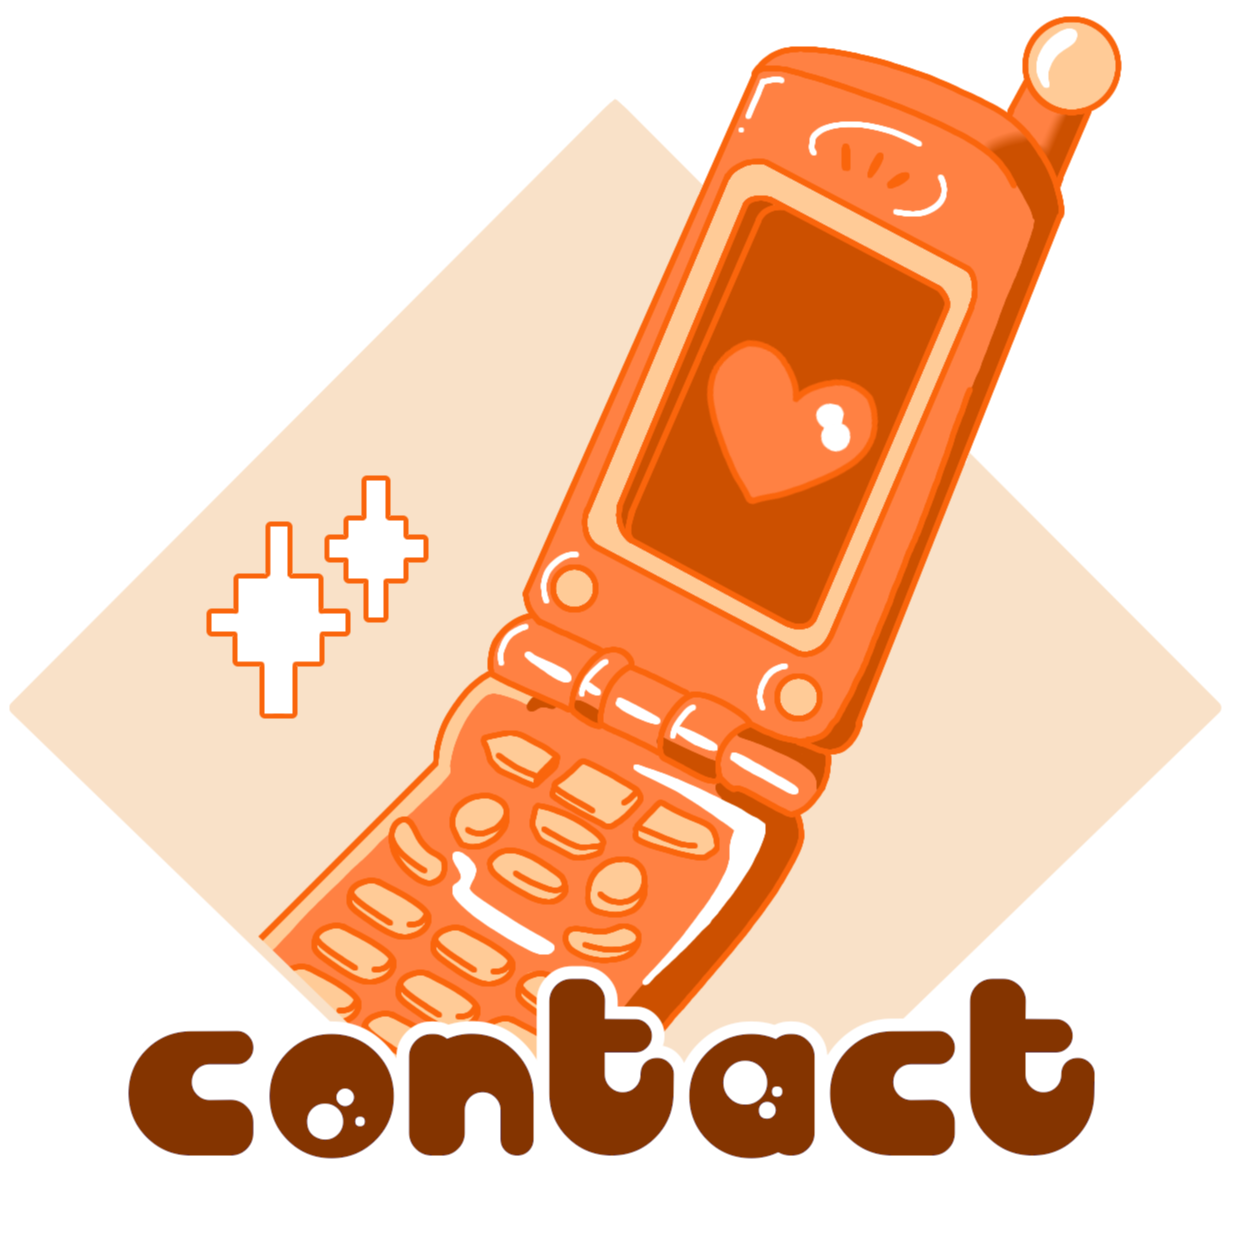
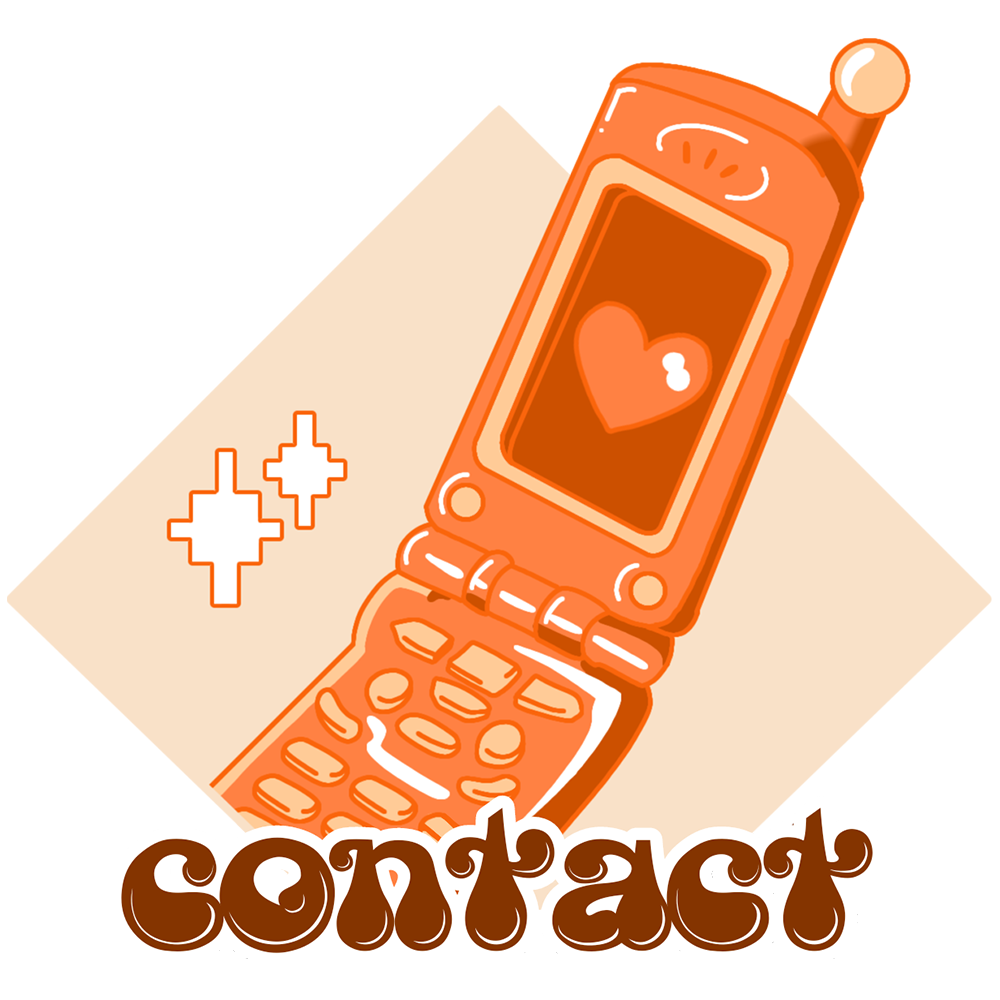
New Font for Nav Buttons and Responsive Home Page

diff --git a/src/routes/artists/carlosdotnet/+page.svelte b/src/routes/artists/carlosdotnet/+page.svelte
@@ -3,9 +3,39 @@
 	import { page } from '$app/stores';
     import { Icon } from 'flowbite-svelte-icons';
 	$: activeUrl = $page.url.pathname;
+
+	let imageSelection = 1;
+	function increment()
+	{
+		imageSelection = imageSelection + 1;
+		if(imageSelection > 10)
+			imageSelection = 1;
+	}
+	function decrement()
+	{
+		imageSelection = imageSelection - 1;
+		if(imageSelection < 1)
+			imageSelection = 10;
+	}
 </script>
 
-<img class="absolute left-96 top-0 -z-10 max-h-none max-w-none select-none" height="647" width="647" src="../artists/instagram_red.png" alt="instagram screen"/>
+<a href="https://instagram.com/carlosdotnet?igshid=MmU2YjMzNjRlOQ==" target="_blank"><img class="absolute left-96 top-0 -z-10 max-h-none max-w-none select-none" height="647" width="647" src="../artists/instagram_red.png" alt="instagram screen"/></a>
+
+<img class="absolute left-[41.5em] top-[10.6em] select-none" height="200" width="200" src="../artists/carlos/carlos{imageSelection}.png" alt="slideshow of tattoos">
+<Icon name="arrow-left-outline" on:click={() => decrement()} class="absolute top-[30.2em] left-[36.6em] mx-20 w-8 h-8 text-orange-600" />
+<Icon name="arrow-right-outline" on:click={() => increment()} class="absolute top-[30.2em] left-[46.7em] mx-20 w-8 h-8 text-orange-600" />
+<p class="absolute top-[21.5em] left-[41.6em] select-none">
+	<span class="{imageSelection == 1 ? "text-black" : "text-white"} text-7xl select-none">.</span>
+	<span class="{imageSelection == 2 ? "text-black" : "text-white"} text-7xl select-none">.</span>
+	<span class="{imageSelection == 3 ? "text-black" : "text-white"} text-7xl select-none">.</span>
+	<span class="{imageSelection == 4 ? "text-black" : "text-white"} text-7xl select-none">.</span>
+	<span class="{imageSelection == 5 ? "text-black" : "text-white"} text-7xl select-none">.</span>
+	<span class="{imageSelection == 6 ? "text-black" : "text-white"} text-7xl select-none">.</span>
+	<span class="{imageSelection == 7 ? "text-black" : "text-white"} text-7xl select-none">.</span>
+	<span class="{imageSelection == 8 ? "text-black" : "text-white"} text-7xl select-none">.</span>
+	<span class="{imageSelection == 9 ? "text-black" : "text-white"} text-7xl select-none">.</span>
+	<span class="{imageSelection == 10 ? "text-black" : "text-white"} text-7xl select-none">.</span>
+</p>
 
 <a href="/artists/tatterjae"><Icon name="arrow-left-outline" class="absolute top-60 mt-4 left-52 mx-20 w-20 h-20 text-white" /></a>
 <a href="/artists/domthekidtattoos"><Icon name="arrow-right-outline" class="absolute top-60 mt-4 left-[42rem] ml-96 w-20 h-20 text-white" /></a>

diff --git a/src/routes/+page.svelte b/src/routes/+page.svelte
@@ -4,12 +4,11 @@
 	$: activeUrl = $page.url.pathname;
 </script>
 
-<div class="flex-col w-fit mx-auto">
-    <img class="-my-20" src="logo-transparent.png" alt="Tatted Ferret Logo" height="550" width="550">
-</div>
-<div class="flex justify-evenly mt-8 mx-40">
-    <a href="/artists/tatterjae" class="flex justify-center"><img src="artists.png" alt="artists" width="150" height="150"/></a>
-    <a href="/bookings" class="flex justify-center"><img src="book.png" alt="bookings" width="150" height="150"/></a>
-    <a href="/faq" class="flex justify-center"><img src="faq.png" alt="frequently asked questions" width="150" height="150"/></a>
-    <a href="/contacts" class="flex justify-center"><img src="contact.png" alt="contact" width="150" height="150"/></a>
+<img class="w-fit mx-auto lg:w-7/12 lg: p-5" src="logo-transparent.png" alt="Tatted Ferret Logo">
+
+<div class="mx-auto grid grid-cols-2 gap-y-2 justify-center lg:justify-items-center lg:absolute lg:top-0 lg:grid-cols-4">
+    <a href="/artists/tatterjae" class="lg:mr-auto lg:w-10/12 lg:col-start-1 lg:col-span-1"><img src="artists.png" alt="artists"/></a>
+    <a href="/bookings" class="lg:ml-auto lg:w-10/12 lg:col-start-4 lg:col-span-1"><img src="book.png" alt="bookings"/></a>
+    <a href="/faq" class="lg:mr-auto lg:w-10/12 lg:col-start-1 lg:col-span-1"><img src="faq.png" alt="frequently asked questions"/></a>
+    <a href="/contacts" class="lg:ml-auto lg:w-10/12 lg:col-start-4 lg:col-span-1"><img src="contact.png" alt="contact"/></a>
 </div>

diff --git a/src/routes/contacts/+page.svelte b/src/routes/contacts/+page.svelte
@@ -4,7 +4,7 @@
 	$: activeUrl = $page.url.pathname;
 
     //Instagram links lead to the instagrams
-    
+    //Add font to convert images to selectable text
 
     let selected = 0;
     function change(val: number)
